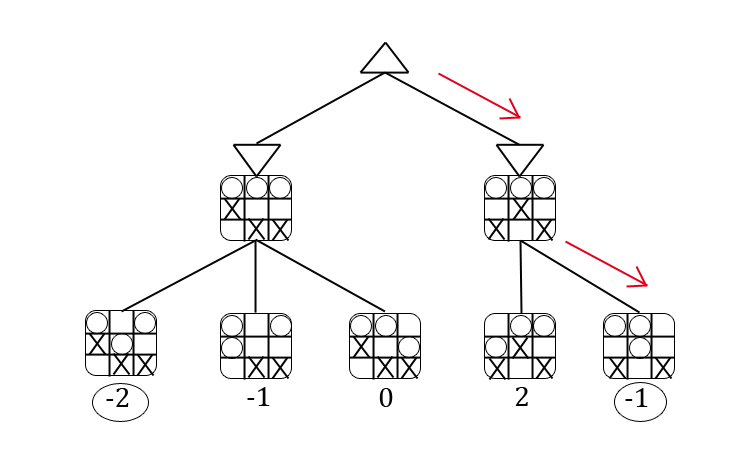
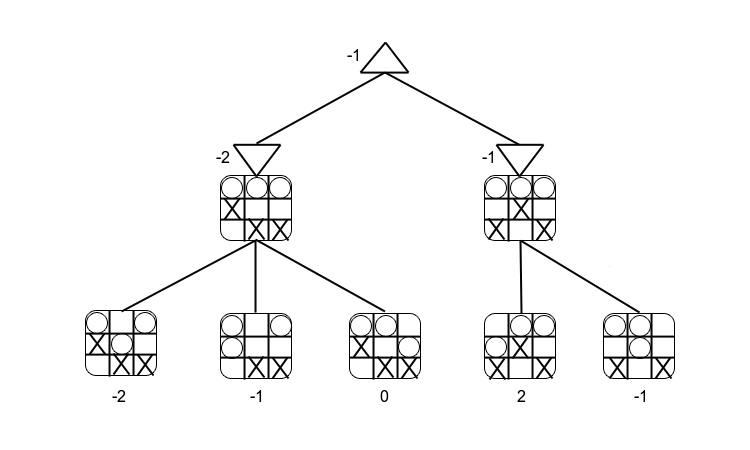
Fatiguééééééééééééé

diff --git a/milestone3/sarena/src/super_player.py b/milestone3/sarena/src/super_player.py
@@ -1,7 +1,7 @@
 '''
 Created on 8 nov. 2012
 
-@author: Florentin
+@author: Debroux Léonard - Rochet Florentin
 '''
 from sarena import *
 import minimax
@@ -24,11 +24,10 @@ class Marvin_player(Player,minimax.Game):
         self.symetricDic = dict()
         self.count_played = 0 # In order to know how many time we have played.
         self._init_pattern()
-        #self.miniboard = [[0,0,0,0],[0,0,0,0],[0,0,0,0],[0,0,0,0]]
         self.previousboard = 0
         self.previousSearchedBoard = None
-        self.previousDepth = 0
-        self.currentDepth = 4
+        #self.previousDepth = 0
+        #self.currentDepth = 4
         self.time_left = 0
         self.timer = 0
         self.step = 0
@@ -42,25 +41,17 @@ class Marvin_player(Player,minimax.Game):
         Successor handle symetric depth and order the tree
         """
         board, player = state        
-        actions_ordered = []
         for action in board.get_actions():
             tmpBoard = board.clone()
             tmpBoard.play_action(action)
             if tmpBoard not in self.symetricDic :
                 self.symetricDic[str(tmpBoard)] = True
                 yield (action,(tmpBoard, -player))
-#                actions_ordered.append(OrderedBoard(self.evaluate((tmpBoard,player)),action))
-#        if player == 1:
-#            actions_ordered.sort(key=operator.attrgetter('eval'),reverse=True)
-#        else : 
-#            actions_ordered.sort(key=operator.attrgetter('eval'))
-#        for orderedBoard in actions_ordered:
-#            self.previousSearchedBoard = board.clone()
-#            yield (orderedBoard.action,(board.clone().play_action(orderedBoard.action), -player)) 
+
 
     def cutoff(self, state, depth):
         board, player = state
-        # TODO            
+
         if board.is_finished() :
             return True
         if self.time_left - (time()-self.timer) < 30 :
@@ -78,46 +69,18 @@ class Marvin_player(Player,minimax.Game):
                 elif move.is_a_pattern(self.mustDoDic) and depth % 2 == 1 :
                     return True # if a node-min is a suicide for the opponent, cut it, he will not play that move
         
-        #####################""
-        maxtime = self.time_left / ((1 + (37/(self.step+1))**1.7)/2)      
+        #######################
+        maxtime = self.time_left / ((1 + (37/(self.step+1))**1.75)/2)      
         if (time()-self.timer) > maxtime:
             print(maxtime)
             self.timeout = True
             return True
         else:
             return depth == self.actualdepth
-        ########################"       
+        #######################     
         
-        if self.step == 17 :
-            self.currentDepth = 5
-        
-        if (time()-self.timer) > 90 :
-            self.timeout = True
-            if time()-self.timer > 200 :
-                print(time()-self.timer)
-                return True
-                return depth>=self.currentDepth-2
-            return depth >= self.currentDepth-1
-        if self.step >= 25 :
-            self.currentDepth = 6
-        if self.timeout == True :
-            self.currentDepth = self.previousDepth-1
-        
-        if depth == self.currentDepth :
-            self.timeout = False
-            self.previousDepth = self.currentDepth
-            self.currentDepth+=1
-            return True
-            
-        
-        self.previousDepth = 5 
-        return depth == 5
     def evaluate(self, state):
         board, player = state
-        #regarder les points en cours sur le board (jeton isoles + tour a retourner + pattern must_do, suicide) + la difference entre le nombre de jeton
-        # down de nos tours avec ceux de l'ennemi.
-        #return board.get_score()
-        #print("test")
         
         self.previousSearchedBoard = None
         if self.step >= 25 :
@@ -185,10 +148,9 @@ class Marvin_player(Player,minimax.Game):
         self.time_left = time_left
         self.timer = time()
         self.step = step
-        print(self.time_left)
-        print(self.actualdepth)
-#        if step == 2:
-#            init_previousboard()
+        #print(self.time_left)
+        #print(self.actualdepth)
+
         if step % 2 == 0:
             player = -1
         else:
@@ -196,14 +158,7 @@ class Marvin_player(Player,minimax.Game):
         board = Board(percepts)
         state = (board, player)
         
-        print(step)
-#        subboardaction = self.get_sub_board_action(board, player)
-#        return subboardaction[1]
-#        if self.previousboard:
-#            differenttowers = self.get_diff_towers(board)
-#            counteraction = self.get_counter_action(board.get_percepts(), board, differenttowers, player)
-#            self.previousboard = board.clone().play_action(counteraction[1])
-#            return counteraction[1]
+        #print(step)
         
         self.previousSearchedBoard = None
         # MustDo before !
@@ -236,7 +191,6 @@ class Marvin_player(Player,minimax.Game):
                 self.previousboard = board.clone().play_action(action_to_play)
                 return action_to_play                
         else :
-            #return minimax.search(state, self)
             if step < 10:
                 counteraction = False
                 if self.previousboard:
@@ -247,9 +201,6 @@ class Marvin_player(Player,minimax.Game):
                 self.timeout = False
                 subboardaction = self.get_sub_board_action(board, player)
                 self.check_timeout()
-                #print(subboardaction)
-#                print(counteraction)
-#                print(subboardaction)
                 if counteraction:
                     if counteraction[1] and subboardaction[1]:
                         if counteraction[0] > subboardaction[0]:
@@ -278,30 +229,7 @@ class Marvin_player(Player,minimax.Game):
                 self.timeout = False
                 action = minimax.search(state, self)
                 self.check_timeout()
-            #action = minimax.search(state, self)
             return action 
-            #we must perform two searches on both subboard and return the best move
-            
-    #        subboardaction = self.get_sub_board_action(board, player)
-    #        
-    #        if self.previousboard:
-    #            differenttowers = [0,0]
-    #            i = 0
-    #            while differenttowers[1] == 0 and i <= range(board.rows):
-    #                j = 0
-    #            #for i in range(board.rows):
-    #                while differenttowers[1] == 0 and j <= range(board.columns):
-    #                #for j in range(board.columns):
-    #                    if board.m[i][j] == self.previousboard[i][j]:
-    #                        if differenttowers[0] == 0:
-    #                            differenttowers[0] = [i, j]
-    #                        else:
-    #                            differenttowers[1] = [i, j]
-    #                    j += 1
-    #                i += 1        
-    #            counteraction = self.get_counter_action(board.get_percepts(), board, differenttowers, player)          
-    #            
-    #        self.previousboard = board.clone().play_action(action)
 
 
     def check_timeout(self):
@@ -312,6 +240,7 @@ class Marvin_player(Player,minimax.Game):
             self.actualdepth += 1
             print("plus")
         return True
+    
     
     def get_diff_towers(self, board):
         differenttowers = [False,False]
@@ -329,18 +258,7 @@ class Marvin_player(Player,minimax.Game):
                 j += 1
             i += 1  
         return differenttowers
-    
-    
-    def init_previousboard(self, board):
-        diffTowers = [None, None]
-        for i in board.rows:
-            for j in board.columns:
-                if board.get_height(board.m[i][j] == 0):
-                    diffTowers[1] = [i, j]
-                elif board.get_height(board.m[i][j] == 1):
-                    diffTowers[0] = [i, j]
-        self.previousboard = board
-        # Find init board not via an action
+
     
     def get_sub_board_action(self, board, player):
         '''Returnsa tuple val, action with the action on the main board \
@@ -348,7 +266,6 @@ class Marvin_player(Player,minimax.Game):
         '''
         miniboardvalues = [[0,0,0,0],[0,0,0,0],[0,0,0,0],[0,0,0,0]]
         best = [0,0,0]
-        #Need to check those -3
         for i in range(board.rows - 3):
             for j in range(board.columns - 3):
                 for x in range (i, i+4):
@@ -393,7 +310,6 @@ class Marvin_player(Player,minimax.Game):
                 return (0, None)
         else:
             return(0, None)
-#        return boardaction
         
     
     def get_counter_action(self, bigboardpercept, board, differenttowers, player):

diff --git a/milestone3/sarena/Report/Report Assignment3 Midproject.tex b/milestone3/sarena/Report/Report Assignment3 Midproject.tex
@@ -70,19 +70,17 @@ Assignement 3 - Mid-Project}
 		Here is the tree representing the game of scipion :
 		\begin{figure}[h!]
 			\centering
-				\includegraphics[scale=2]{minmax_tree_scipion.png}
+				\includegraphics[scale=0.5]{minmax_tree_scipion_specs.png}
 			\caption{Scipion Tree}
 			\label{fig:server_connection}	
 		\end{figure}\\
-		On this tree, the value of the leaves are written at the botton, the arrow indicates what is the optimal moves for the root player to win, and so, it should play the right action.\\
-		The value of the other nodes are not written, but it is $-1$ for the root, and on the level 1, it is $-2$ for the left node, and $-1$ for the right one.
+		On this tree, we can find at the bottom the values of the leaves. From them are derived the values of the other nodes using minimax. We see that as the root is max, it will play the right action.
 	\section{Alpha-Beta search}	
 		\subsection{Perform the MiniMax algorithm on the tree in Figure 4, i.e. put a value to each node. Circle the move the root player should do.}
 		\begin{figure}[h!]
 			\centering
 				\includegraphics[scale=0.4]{arbre_minimax.png}
 			\caption{Scipion Tree}
-			\label{fig:server_connection}	
 		\end{figure}
 		Due to the not-so-easy-to-use Gimp, there is no circle, but the chosen action will be the right one.
 		\subsection{Perform the Alpha-Beta algorithm on the tree. At each non terminal node, put the successive values of $\alpha$ and $\beta$. Cross out the arcs reaching non visited nodes. Assume a left-to-right node expansion.}
@@ -90,7 +88,6 @@ Assignement 3 - Mid-Project}
 			\centering
 				\includegraphics[scale=0.8]{tree-fig5.png}
 			\caption{Scipion Tree}
-			\label{fig:server_connection}	
 		\end{figure}
 		\subsection{Do the same, assuming a right-to-left node expansion instead}
 		\begin{figure}[h!]

diff --git a/milestone3/sarena/src/basic_player.py b/milestone3/sarena/src/basic_player.py
@@ -1,6 +1,8 @@
 #!/usr/bin/env python3
 # -*- coding: utf-8 -*-
-
+'''
+@author: Debroux Léonard - Rochet Florentin
+'''
 import random
 
 from sarena import *
@@ -35,6 +37,7 @@ class AlphaBetaPlayer(Player, minimax.Game):
             return True
 #        self.depthCount[depth] += 1
 #        self.count += 1
+
 #        if self.count % 1000000 == 0:
 #            print("% noeud totaux", self.count)
 #            print("% par depth", self.depthCount)
@@ -51,7 +54,7 @@ class AlphaBetaPlayer(Player, minimax.Game):
             player = -1
         else:
             player = 1
-        start = time.time()
+#        start = time.time()
         state = (Board(percepts), player)
         m = minimax.search(state, self)
 
@@ -59,7 +62,7 @@ class AlphaBetaPlayer(Player, minimax.Game):
 #        print("nombre de noeuds explorés par depth : ", self.depthCount)
 #        self.count = 0
 #        depthCount = [0, 0, 0, 0, 0, 0, 0, 0, 0, 0, 0, 0]
-        print("temps elapsed : ", format(time.time()-start))
+#        print("temps elapsed : ", format(time.time()-start))
         return m
 
 
